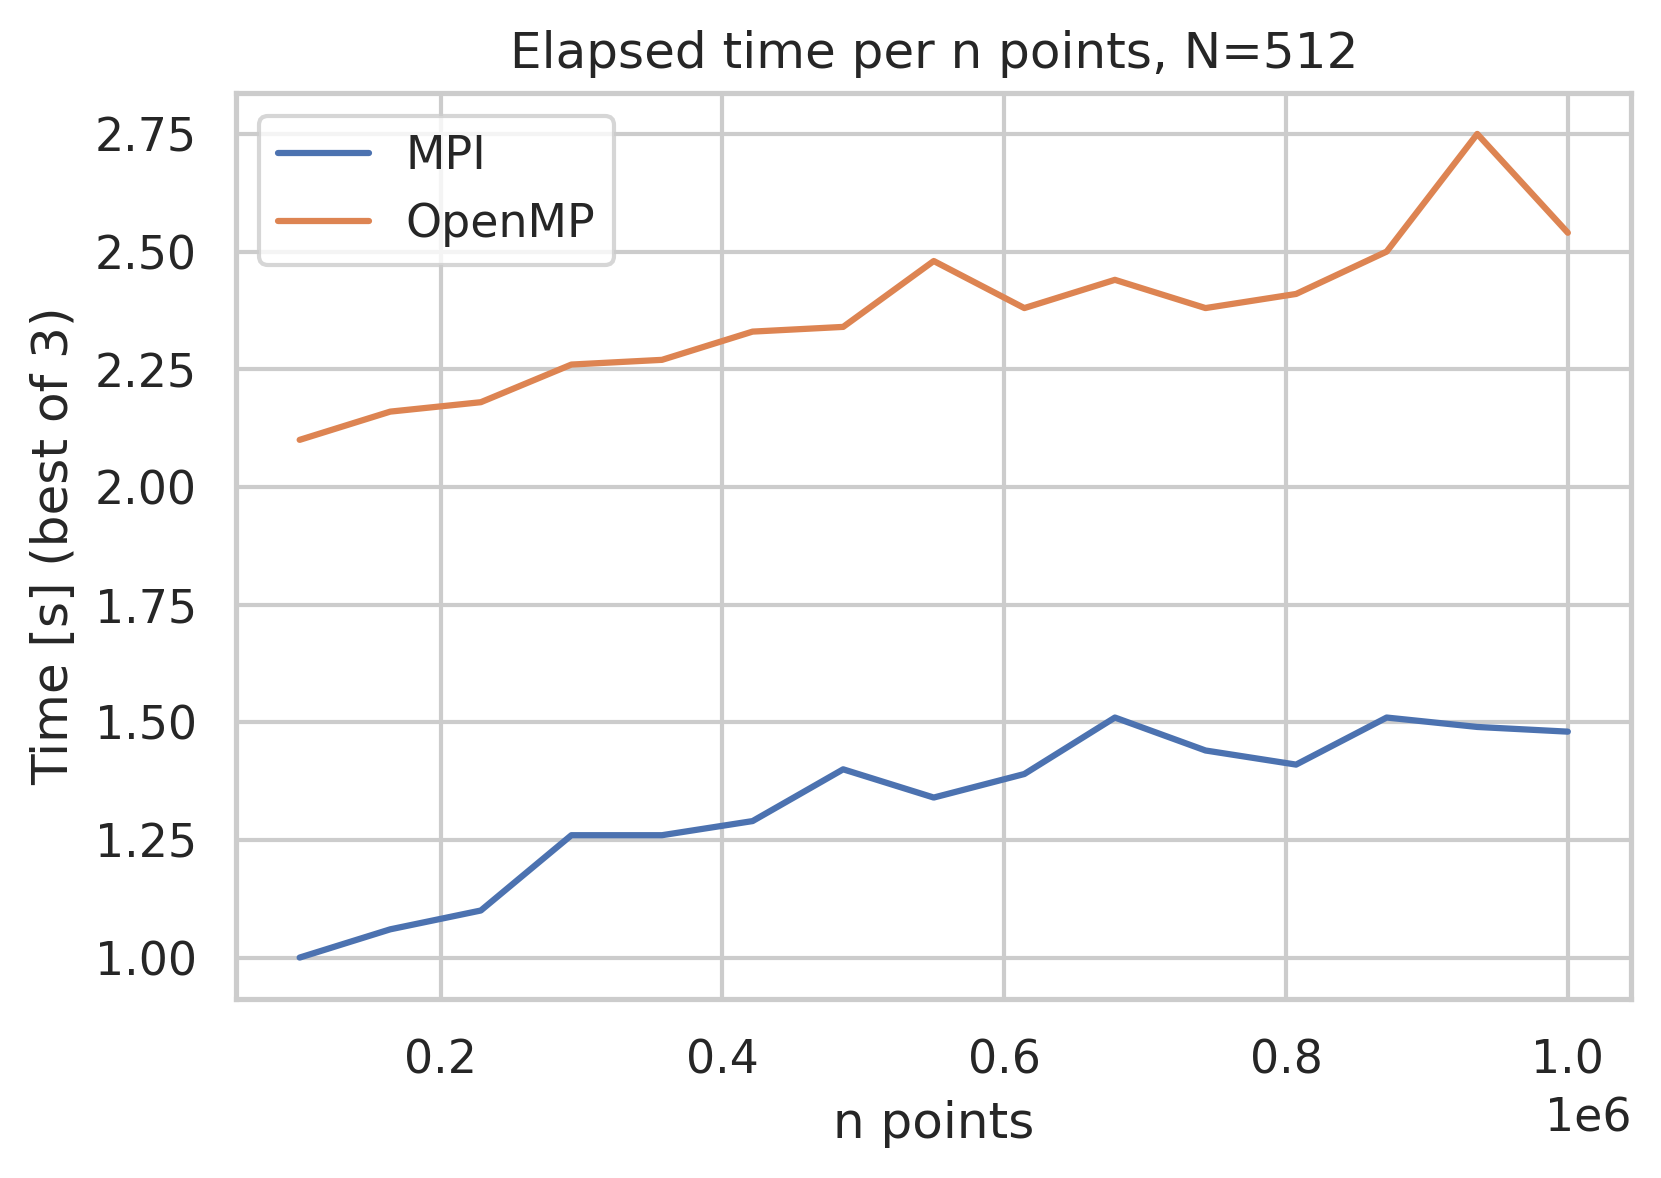
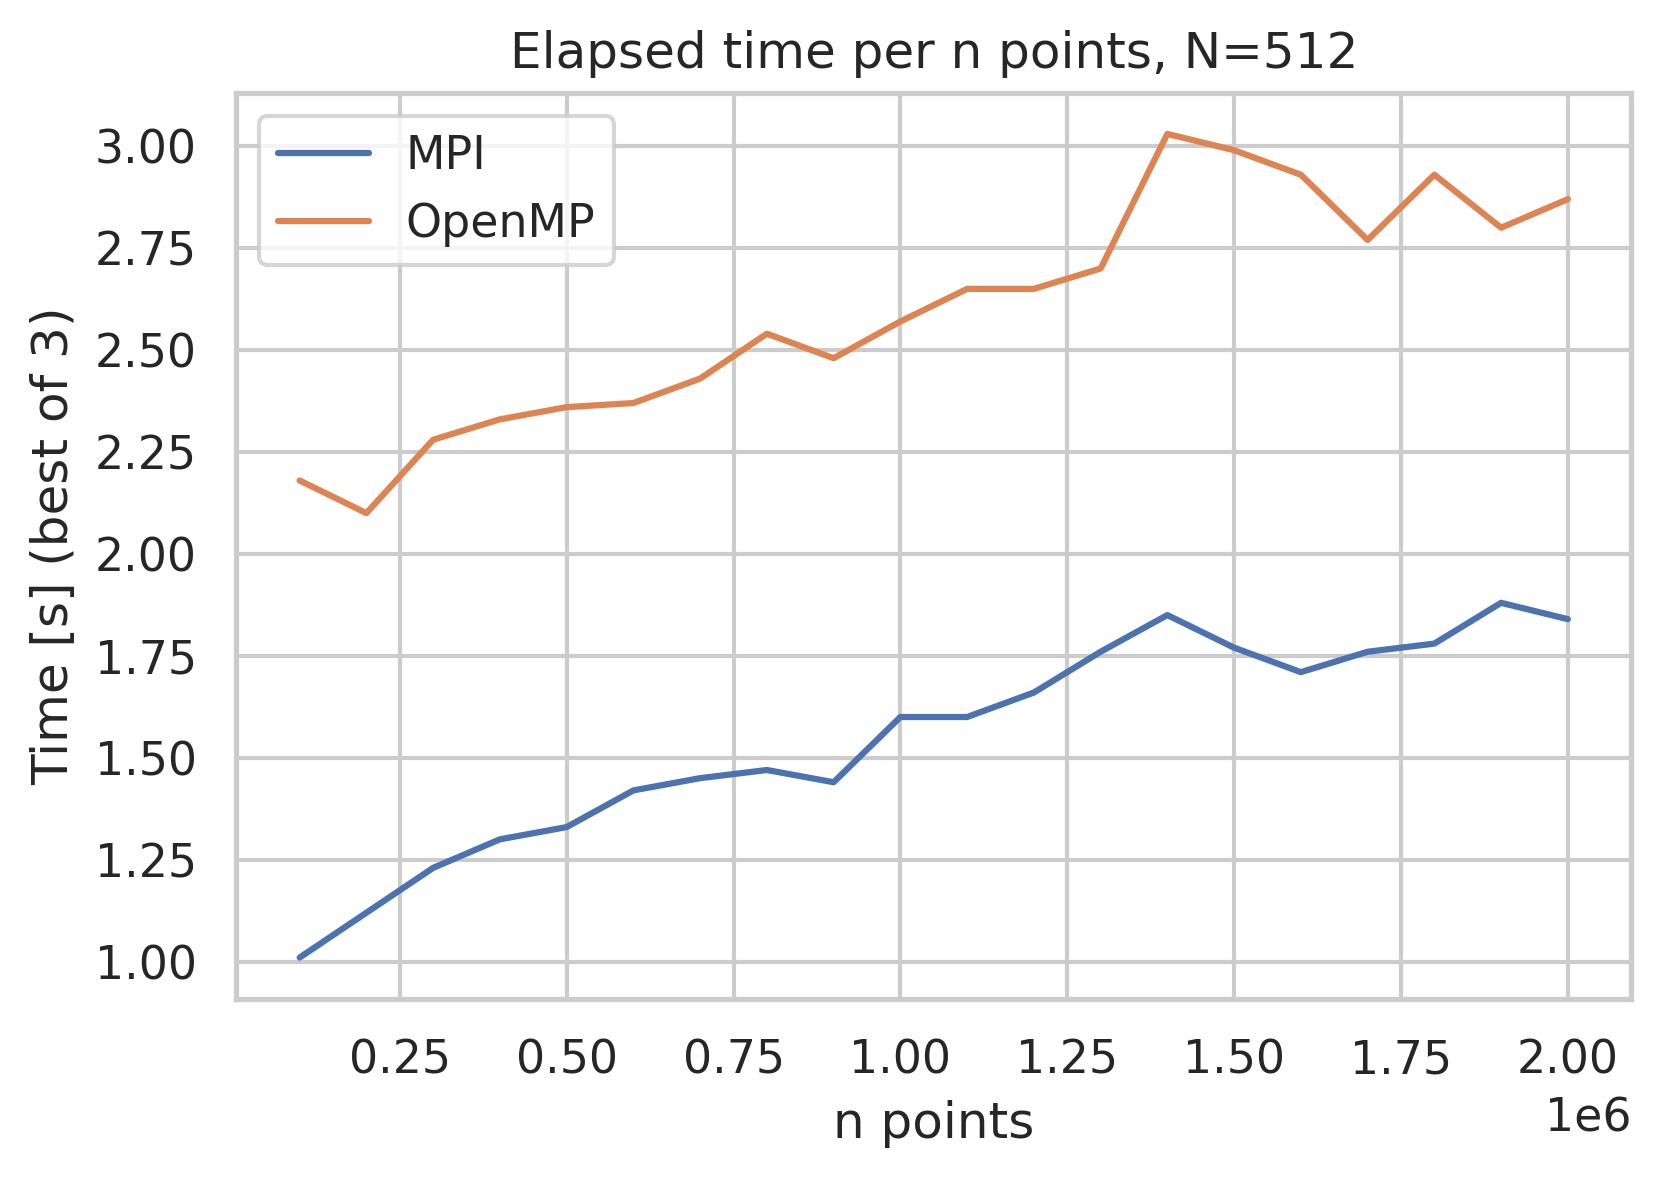
Rerun benchmarks

diff --git a/src/utils/math_utils.h b/src/utils/math_utils.h
@@ -60,43 +60,11 @@ void update_density_matrix(u_int32_t *__restrict local_density, float *__restric
     size_t high_x = high_bound(point[0] + R, N, N_inv, Nx_range);
     for (; low_x < high_x; low_x++)
     {
-        size_t register a = (low_x - Nx_range[0]) * N2;
-
-        float x = get_point(low_x, N_inv) - point[0];
-        float x2 = x * x;
-        float radius_x2 = R2 - x2;
-        float register radius_x = sqrtf(radius_x2);
-
-        size_t register low_y = low_bound(point[1] - radius_x, N, N_inv, default_range);
-        size_t high_y = high_bound(point[1] + radius_x, N, N_inv, default_range);
-        for (; low_y < high_y; low_y++)
-        {
-            size_t register b = a + low_y * N;
-
-            float y = get_point(low_y, N_inv) - point[1];
-            float y2 = y * y;
-            float register radius_xy = sqrtf(radius_x2 - y2);
-
-            size_t register low_z = low_bound(point[2] - radius_xy, N, N_inv, default_range);
-            size_t high_z = high_bound(point[2] + radius_xy, N, N_inv, default_range);
-            for (; low_z < high_z; low_z++)
-            {
-                local_density[b + low_z] += 1lu;
-            }
-        }
-    }
-}
-
-void update_density_matrix_OMP(u_int32_t *__restrict local_density, float *__restrict point,
-                               register const size_t N, const size_t N2,
-                               register const float N_inv, register const float R, const float R2,
-                               size_t *Nx_range, size_t *default_range)
-{
-    size_t register low_x = low_bound(point[0] - R, N, N_inv, Nx_range);
-    size_t high_x = high_bound(point[0] + R, N, N_inv, Nx_range);
-    for (; low_x < high_x; low_x++)
-    {
+        #ifdef _OPENMP
         size_t register a = low_x * N2;
+        #else
+        size_t register a = (low_x - Nx_range[0]) * N2;
+        #endif
 
         float x = get_point(low_x, N_inv) - point[0];
         float x2 = x * x;

diff --git a/src/density_omp.cc b/src/density_omp.cc
@@ -45,7 +45,7 @@ void compute_density_chunk(u_int32_t *__restrict density, float *__restrict poin
     // omp_get_thread_num(), Nx_range[0], Nx_range[1], Nx, n_points, R);
     for (register size_t i = 0; i < n_points * 3; i += 3)
     {
-        update_density_matrix_OMP(density, &points[i], N, N2, N_inv, R, R2, Nx_range, default_range);
+        update_density_matrix(density, &points[i], N, N2, N_inv, R, R2, Nx_range, default_range);
     }
 }
 

diff --git a/src/generate_points.cc b/src/generate_points.cc
@@ -10,6 +10,7 @@
 #include <iostream>
 
 #include "utils/io_utils.h"
+#include "utils/math_utils.h"
 
 typedef u_int8_t byte;
 
@@ -30,6 +31,7 @@ int main(int argc, char **argv)
 
     const u_int32_t n_points = atol(argv[1]);
     
+    set_random_seed(rng, rd);
     random_input_file("points.bin", n_points, rng, udist);
     return 0;
 }

diff --git a/Report/report.md b/Report/report.md
@@ -16,19 +16,27 @@ The OpenMP code was compiled with GCC version 10.3.0 while the MPI code was comp
 I tested the code using 4 MPI processes for the MPI version and 4 omp threads for the OpenMP version, this number corresponds to the number of physical threads of my CPU, an Intel(R) Core(TM) i5-4690 CPU @ 3.50GHz
 
 ## Elapsed time per n points
-I fixed the grid number to $N=512$, the radius to $R=1/n^{1/3}$ and I varied the number of points from $10^6$ to $10^7$
+I fixed the grid number to $N=512$, the radius to $R=1/n^{1/3}$ and I varied the number of points from $10^6$ to $2\times 10^7$
 
 ![](Images/n_points_linear.png)
 
 We can see that the elapsed time scales linearly with the number of points, this is expected because we didn't use a brute force approach but we only check the grid points that are close to a certain point. The overall complexity of this algorithm, without counting communication and I/O, is $\Theta(N^3 R^3 n)$, since $R=1/n^{1/3}$ we should have $\Theta(N^3)$ which is a constant. However this doesn't account for the time to read the input file and the time to communicate the points around, which are both operations that scale with $\Theta(n)$. So we improve the speed of the algorithm but it is still linear in the number of points.
 
 ## Elapsed time per grid number
-I fixed the radius to $R=0.05$, the number of points to $n=2^{20} \approx 10^{6}$ and I varied the grid number from $16$ to $256$
+I fixed the radius to $R=0.05$, the number of points to $n=2^{20} \approx 10^{6}$ and I varied the grid number from $16$ to $512$
 
 ![](Images/grid_number_linear.png)
 
 We can see that the elapsed time scales with the cube of the grid number, as expected.
-The green line represents a fitted polynomial of degree 3  
+The green line represents a fitted polynomial of degree 3.  
+To better see the scaling for high values of $N$ we also plotted the same lines in log-log scale and increased the grid number up to 1024
+
+![](Images/grid_number_log.png)
 
 ## Comments on MPI vs OpenMP
-MPI is faster than OpenMP in these tests, this could be caused by the fact that the OpenMP program doesn't parallelize the I/O operations while the MPI program does, this could also be seen in the elapsed time per grid number graph, where the OpenMP program is faster than the MPI version up until $N\sim 80$, while for $N > 80$ the MPI version is faster
+In the first benchmark MPI is faster than OpenMP, this could be caused by the fact that the OpenMP program doesn't parallelize the I/O operations while the MPI program does, furthermore the MPI program sorts the data before passing it to the processors, these two optimizations are very noticable for high $N$, low $R$ and high $n_{points}$ which is the case here.  
+
+In the second benchmark the results are very interesting: 
+- For $N<100$ the MPI program is slightly better than OpenMP, in this regime the number of cell updates is similar to the number of points, so the pre-sorting of points that the MPI program does is very beneficial.
+- For $100 < N < 500$ the OpenMP version is faster, from this point on the number of cell updates is much bigger than the number of points, so the OpenMP code doesn't suffer from skipping the pre-sorting, moreover it manages to achieve better work-sharing among the processors because of tasks, so it performs quite better than the MPI version.
+- For $N>500$ the MPI program returns to be the fastest, in this regime the time spent performing I/O is relevant, for instance when $N=1024$ the density matrix is about 4 GB, and we think that MPI manages to parallelize this part while OpenMP doesn't
